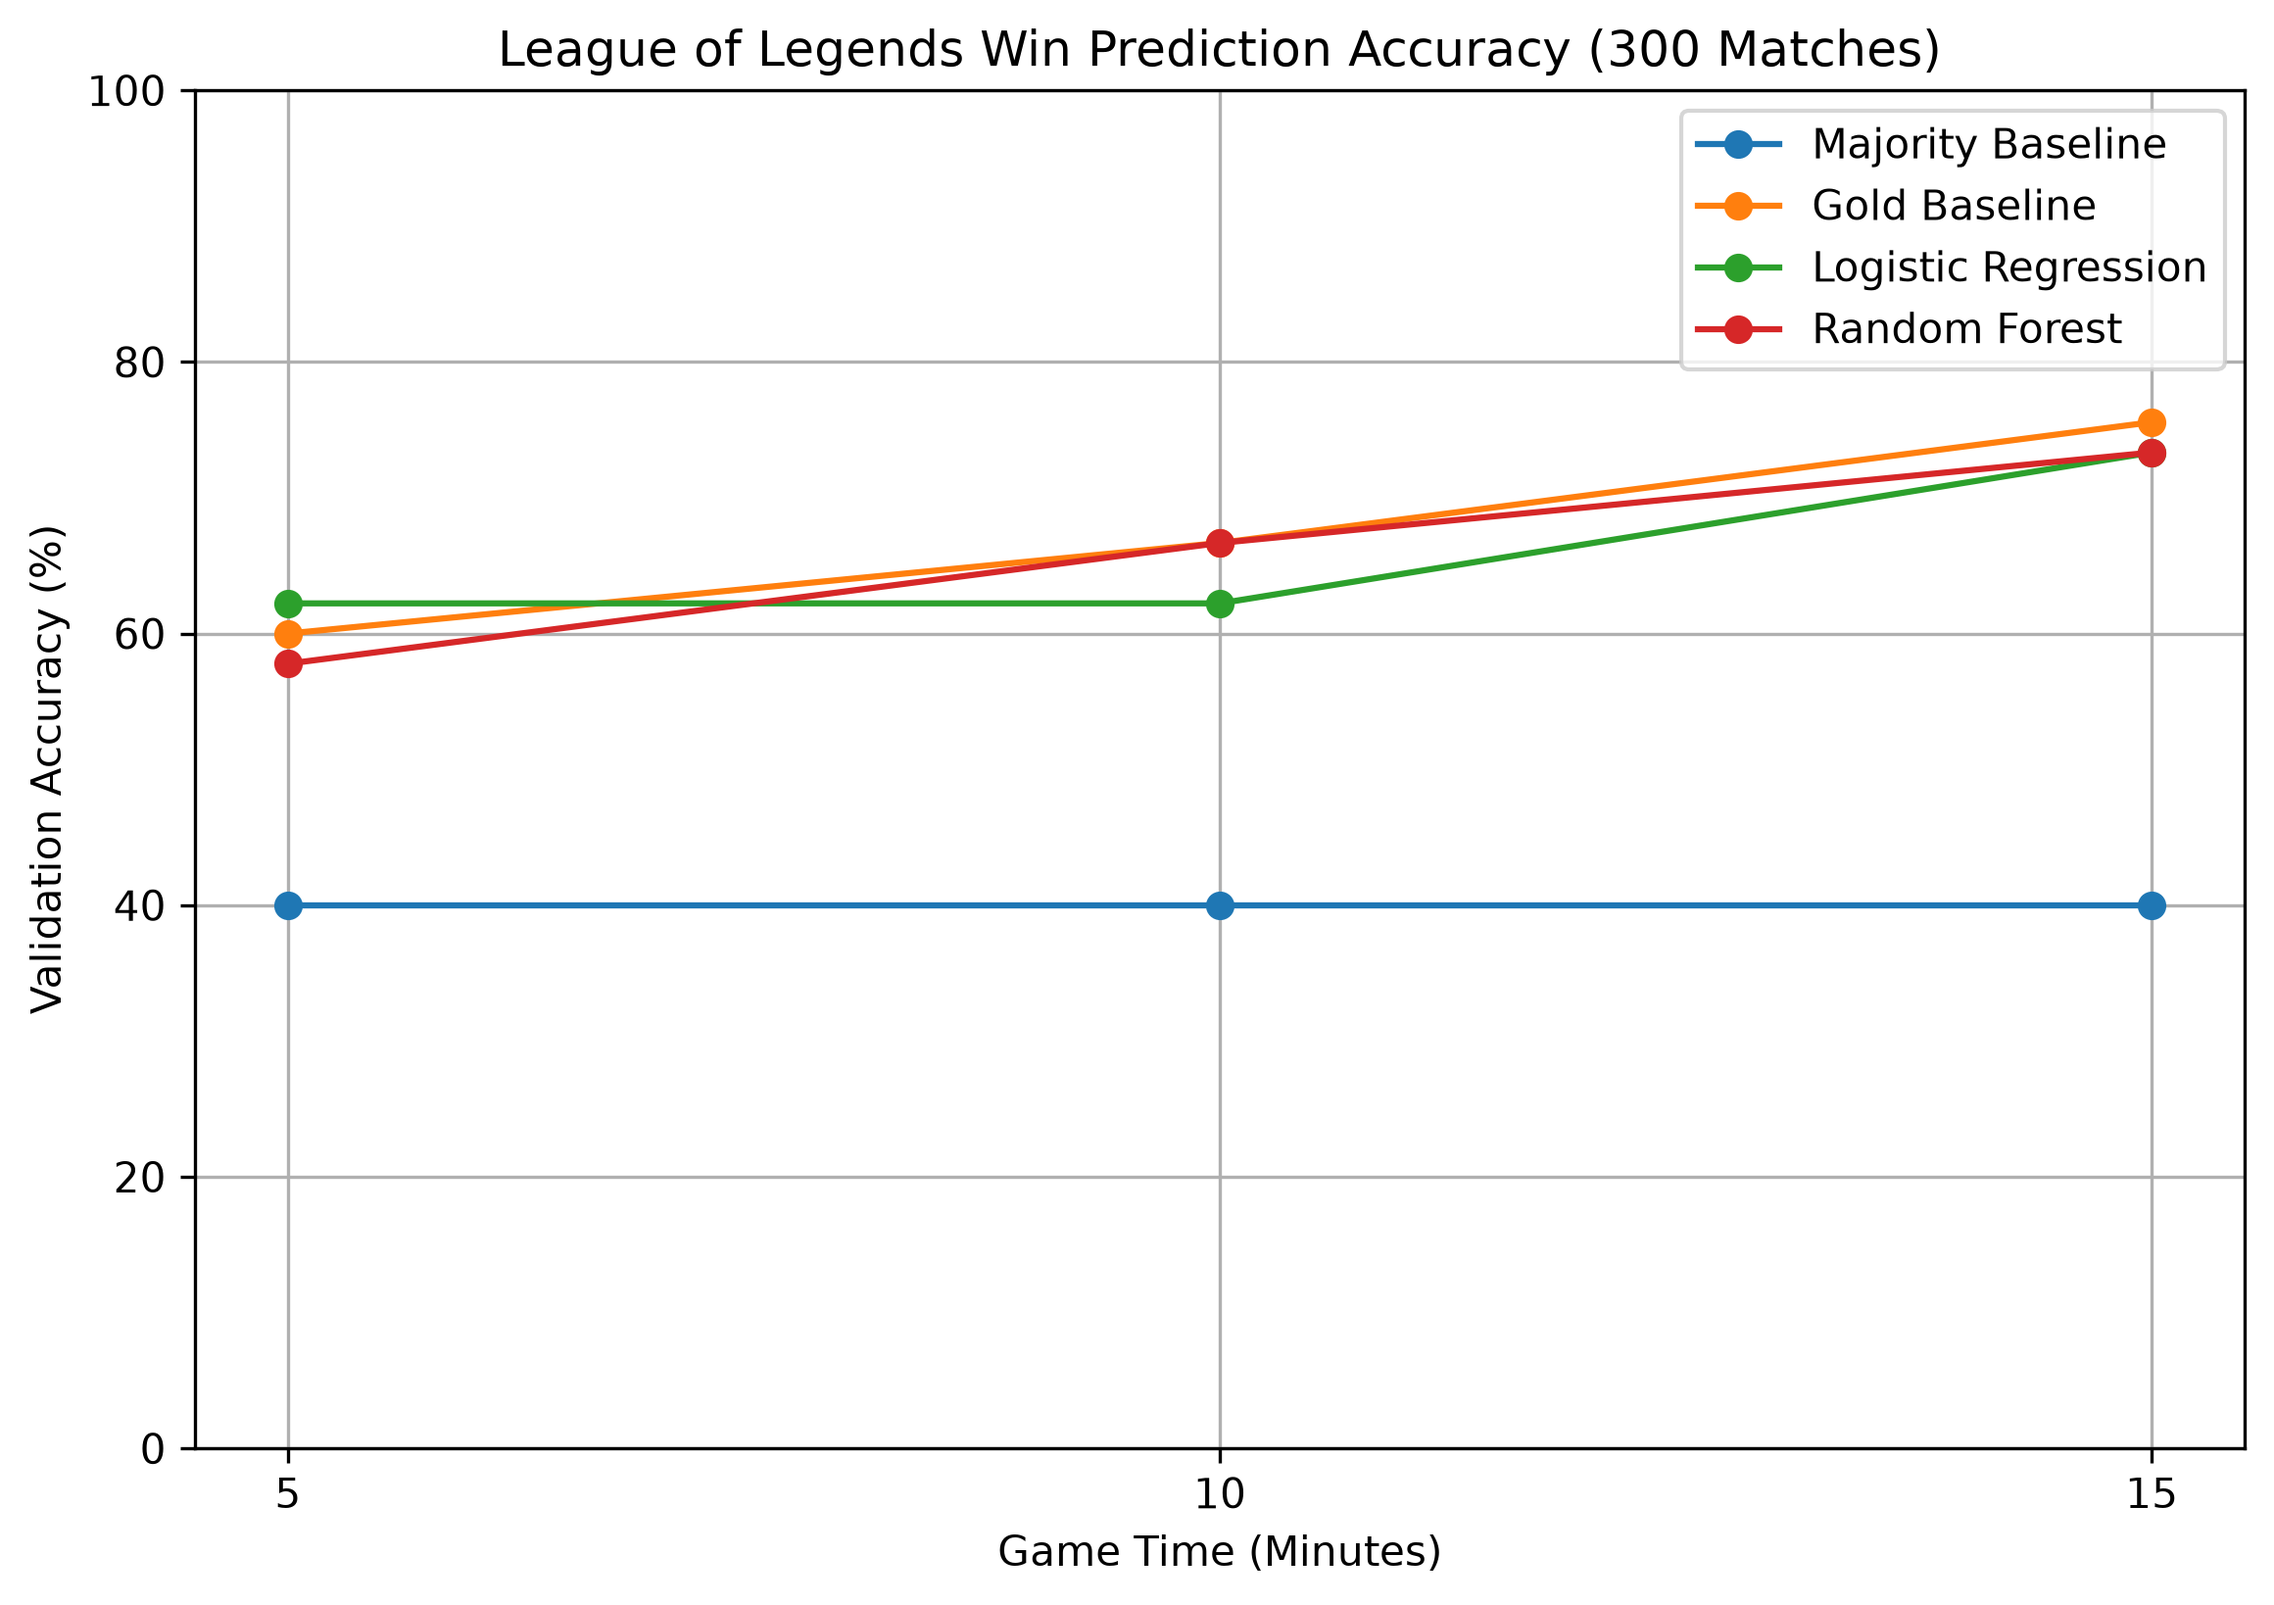
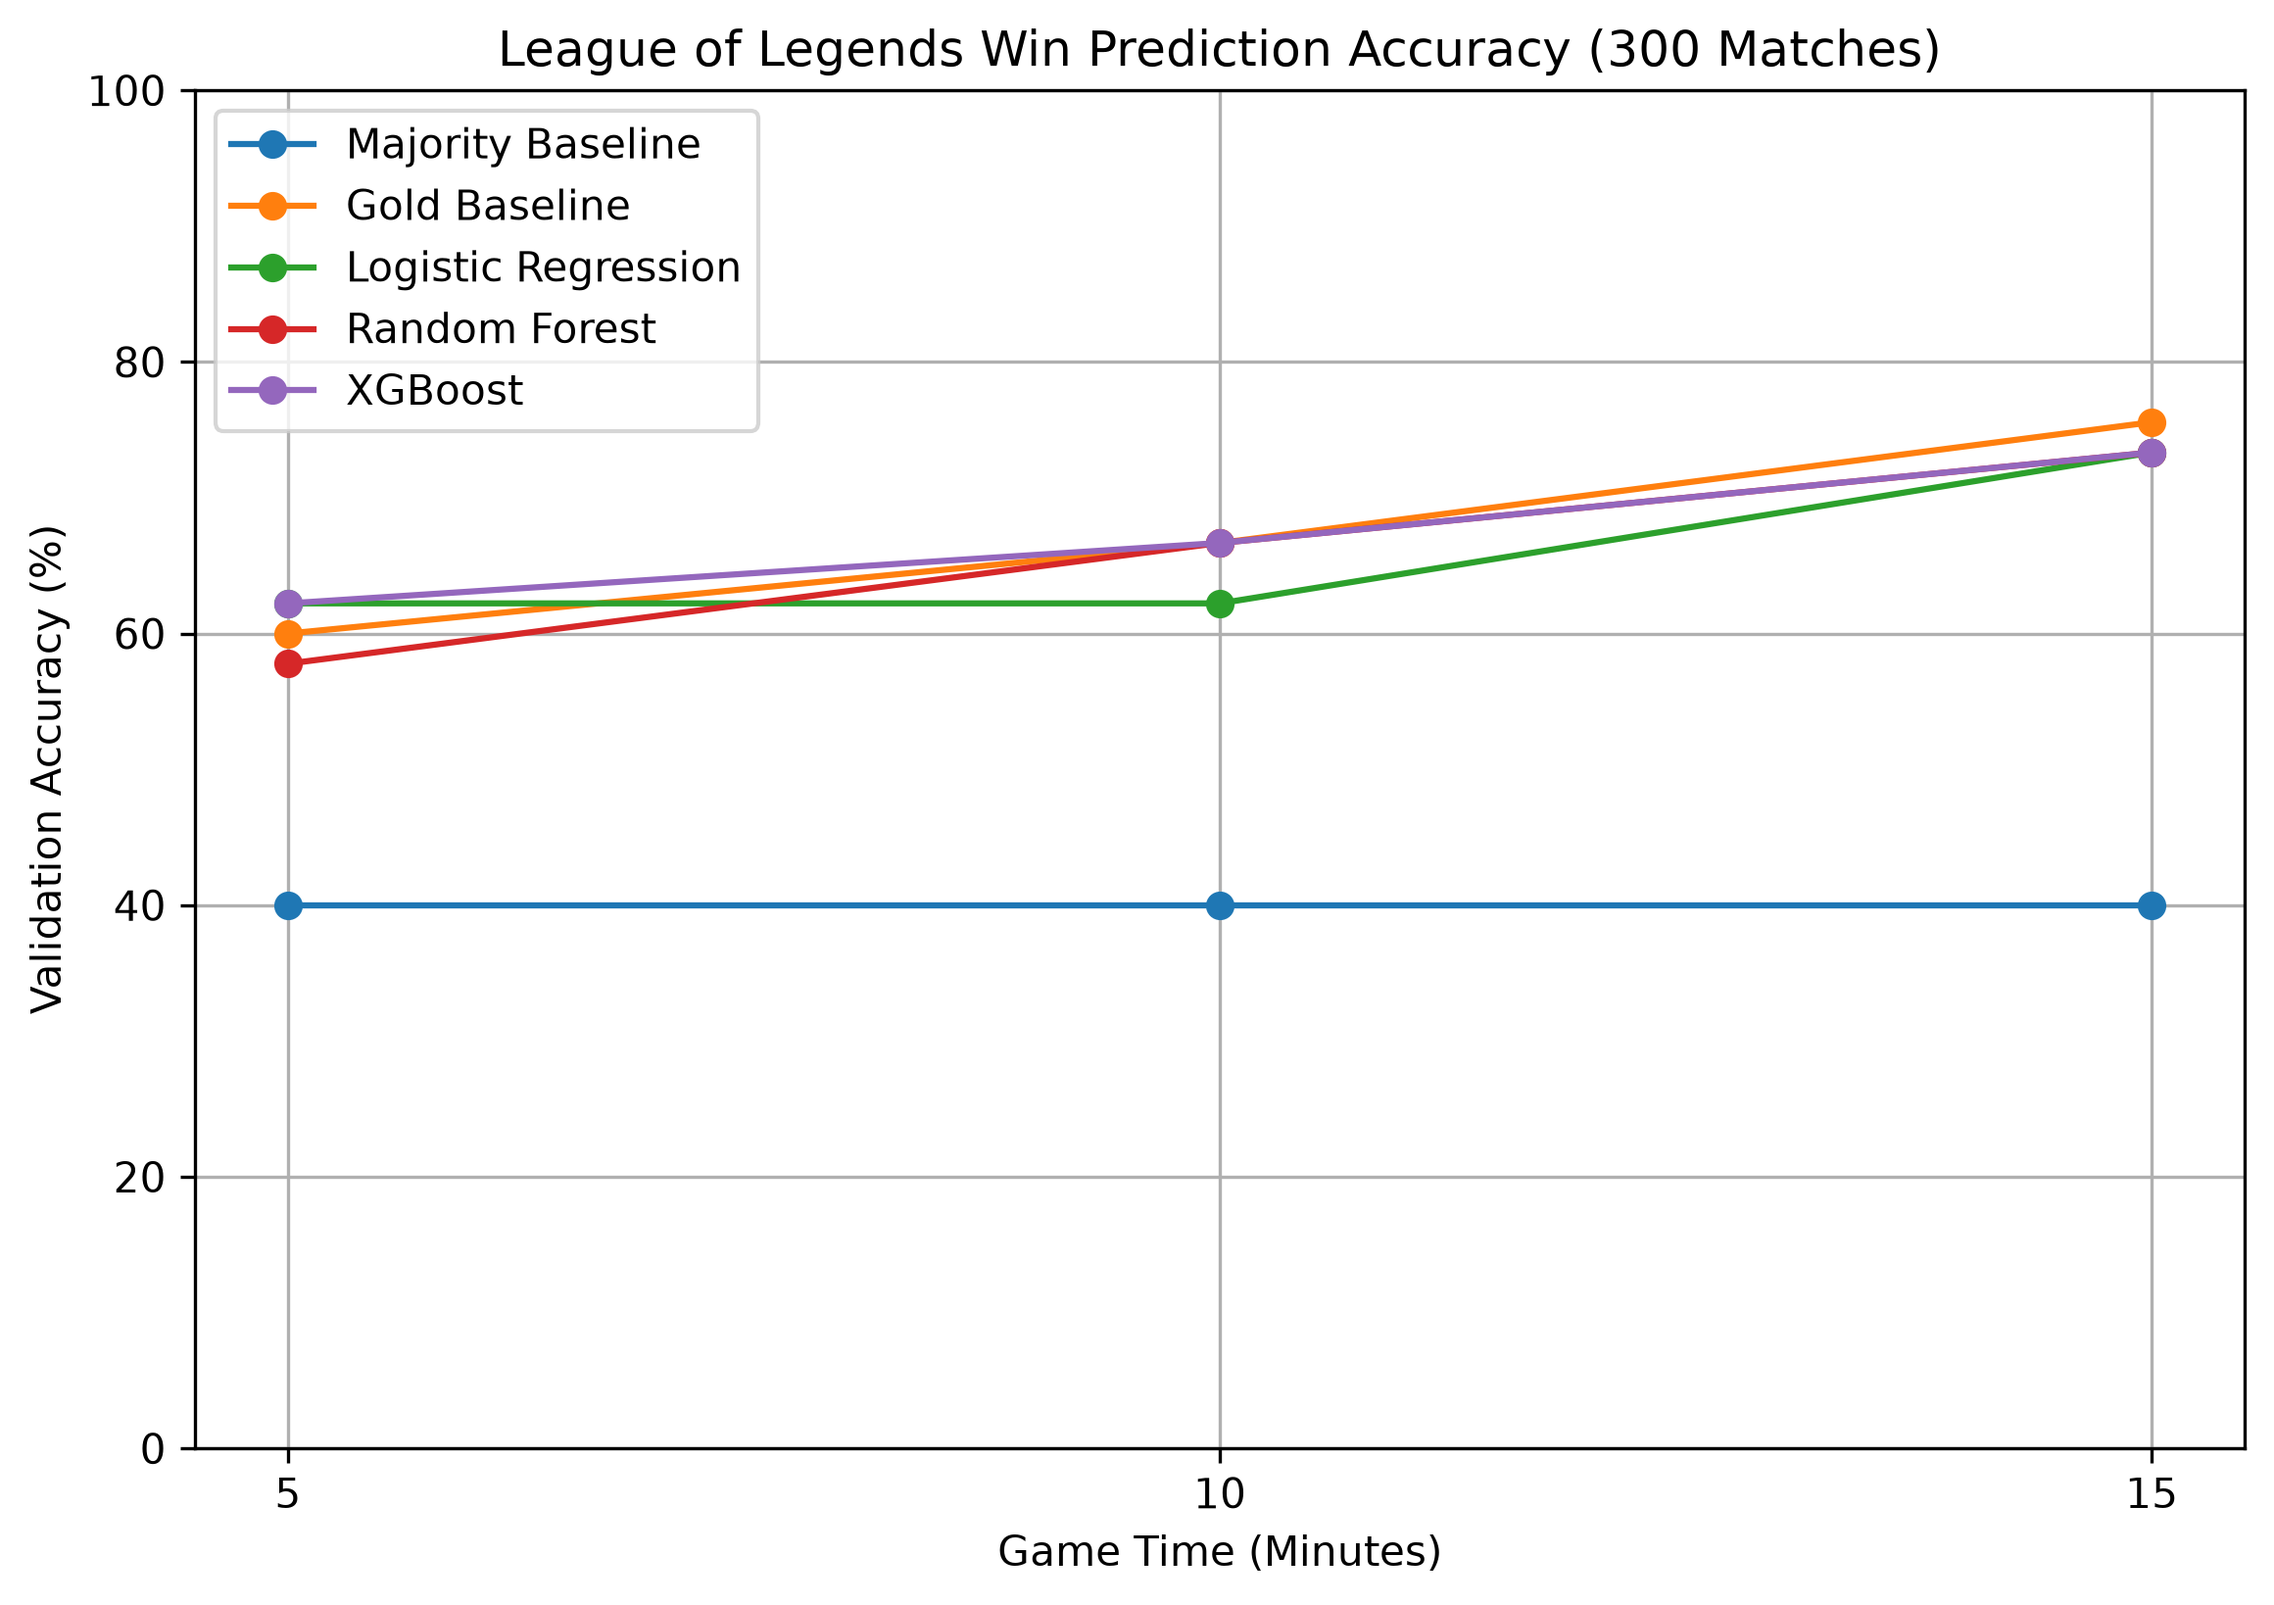
Added XGBoost model and updated accuracy comparison

diff --git a/src/xgboost_model.py b/src/xgboost_model.py
@@ -1,0 +1,79 @@
+import json
+import pandas as pd
+from xgboost import XGBClassifier
+from sklearn.metrics import accuracy_score, roc_auc_score, log_loss, brier_score_loss
+
+data = pd.read_csv("data/processed/match_features.csv")
+
+with open("splits/match_split.json", "r") as file:
+    splits = json.load(file)
+
+train_ids = splits["train"]
+val_ids = splits["validation"]
+test_ids = splits["test"]
+
+print("Training matches:", len(train_ids))
+print("Validation matches:", len(val_ids))
+print("Test matches:", len(test_ids))
+
+features = [
+    "gold_diff",
+    "xp_diff",
+    "cs_diff",
+    "jungle_cs_diff",
+    "kill_diff",
+    "tower_diff",
+    "dragon_diff",
+    "grub_diff",
+    "first_blood",
+    "first_tower",
+    "first_dragon"
+]
+
+for minute in [5, 10, 15]:
+    print()
+    print("=" * 40)
+    print("MINUTE:", minute)
+    print("=" * 40)
+
+    minute_data = data[data["minute"] == minute]
+
+    train_data = minute_data[minute_data["match_id"].isin(train_ids)]
+    val_data = minute_data[minute_data["match_id"].isin(val_ids)]
+
+    X_train = train_data[features]
+    y_train = train_data["blue_win"]
+
+    X_val = val_data[features]
+    y_val = val_data["blue_win"]
+
+    model = XGBClassifier(
+        n_estimators=100,
+        max_depth=3,
+        learning_rate=0.05,
+        subsample=0.8,
+        colsample_bytree=0.8,
+        objective="binary:logistic",
+        eval_metric="logloss",
+        random_state=42
+    )
+
+    model.fit(X_train, y_train)
+
+    predictions = model.predict(X_val)
+    probabilities = model.predict_proba(X_val)[:, 1]
+
+    accuracy = accuracy_score(y_val, predictions)
+    loss = log_loss(y_val, probabilities, labels=[0, 1])
+    brier = brier_score_loss(y_val, probabilities)
+
+    print("Validation games:", len(val_data))
+    print("Accuracy:", round(accuracy * 100, 2), "%")
+    print("Log Loss:", round(loss, 4))
+    print("Brier Score:", round(brier, 4))
+
+    if len(y_val.unique()) == 2:
+        auc = roc_auc_score(y_val, probabilities)
+        print("ROC-AUC:", round(auc, 4))
+    else:
+        print("ROC-AUC: Not available")

diff --git a/src/plot_results.py b/src/plot_results.py
@@ -6,6 +6,7 @@ majority_accuracy = [40.00, 40.00, 40.00]
 gold_accuracy = [60.00, 66.67, 75.56]
 logistic_accuracy = [62.22, 62.22, 73.33]
 random_forest_accuracy = [57.78, 66.67, 73.33]
+xgboost_accuracy = [62.22, 66.67, 73.33]
 
 plt.figure(figsize=(9, 6))
 plt.plot(minutes, majority_accuracy, marker='o',
@@ -16,6 +17,8 @@ plt.plot(minutes, logistic_accuracy, marker="o",
          label="Logistic Regression")
 plt.plot(minutes, random_forest_accuracy, marker="o",
          label="Random Forest")
+plt.plot(minutes, xgboost_accuracy, marker="o",
+         label="XGBoost")
 plt.title("League of Legends Win Prediction Accuracy (300 Matches)")
 plt.xlabel("Game Time (Minutes)")
 plt.ylabel("Validation Accuracy (%)")
